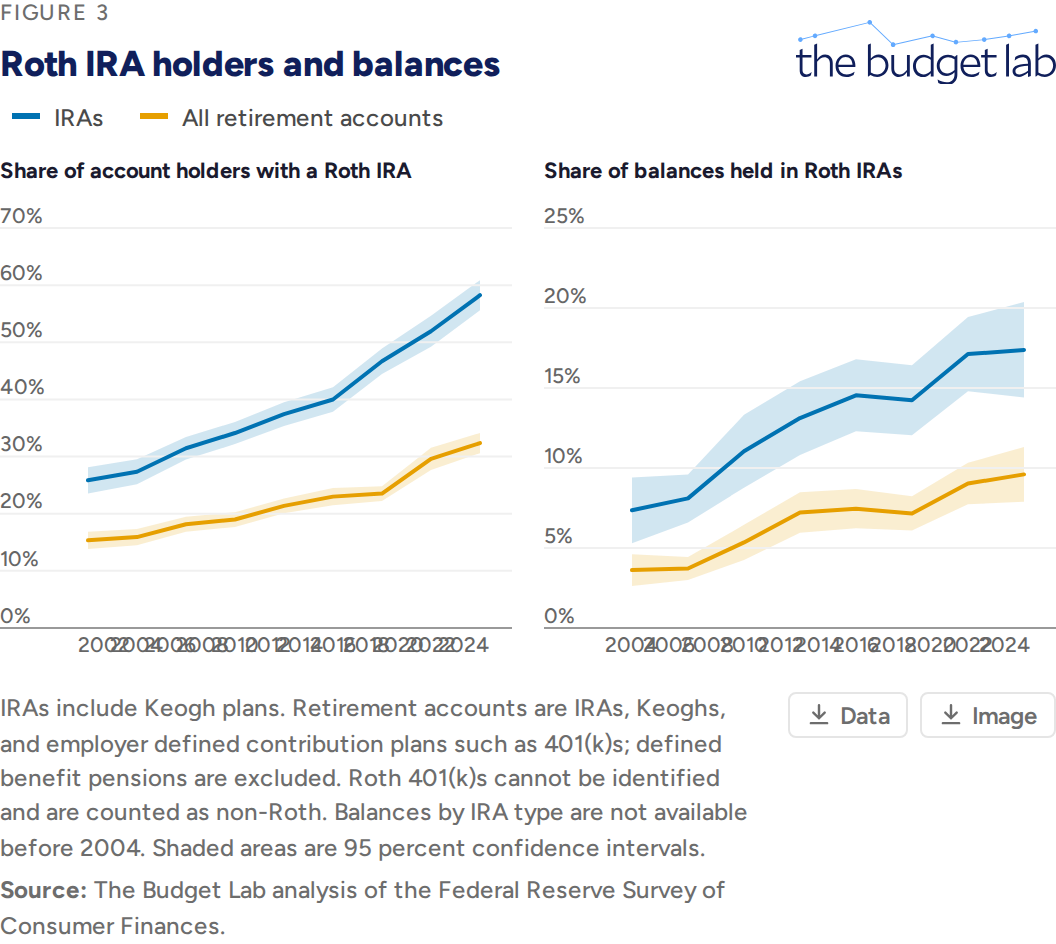
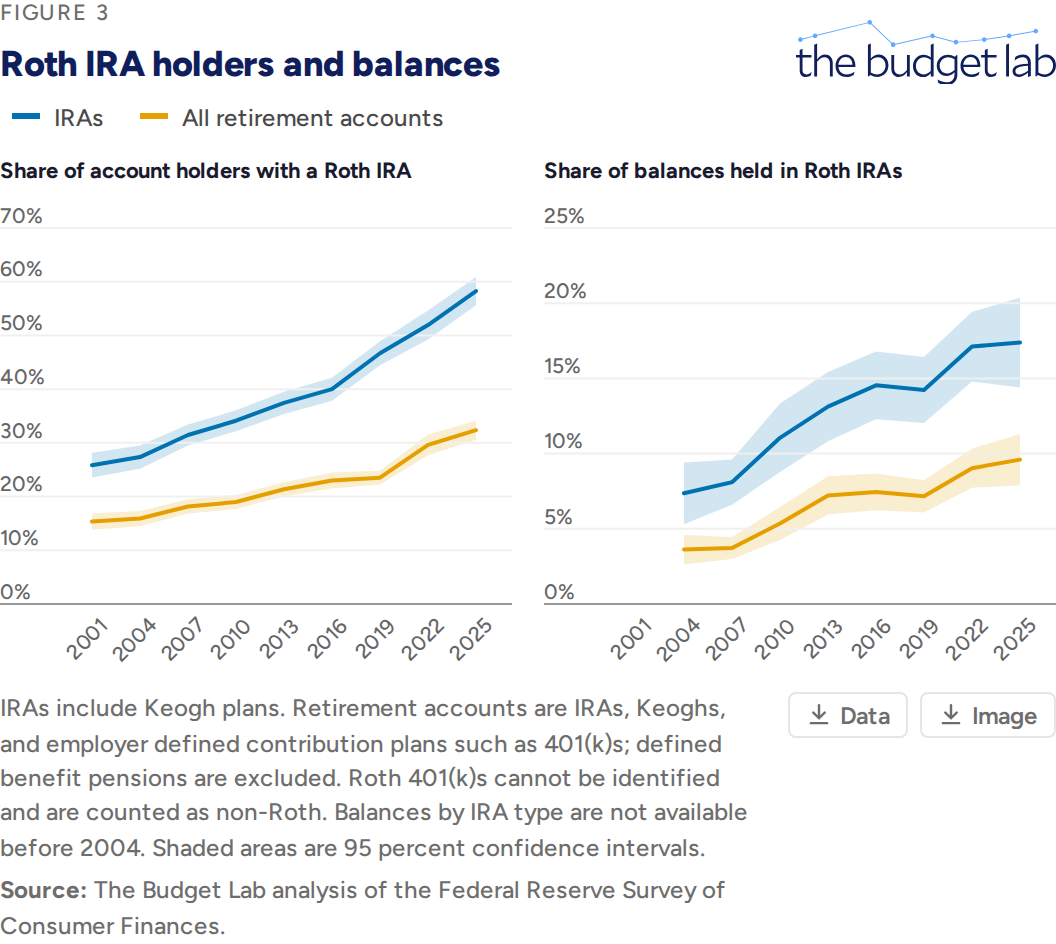
Deploy preview for PR 77 🛫

diff --git a/pr-preview/pr-77/scf-2025-tax-takeaways/roth-ira/index.html b/pr-preview/pr-77/scf-2025-tax-takeaways/roth-ira/index.html
@@ -16,8 +16,8 @@ if (typeof BudgetLabChart === "undefined") {
   renderUnavailable(el, "Roth IRA holders and balances", "Figure 3");
 } else {
 BudgetLabChart.mountChart(el, {
-  spec: {"chartType":"line","title":"Roth IRA holders and balances","source":"The Budget Lab analysis of the Federal Reserve Survey of Consumer Finances.","note":"IRAs include Keogh plans. Retirement accounts are IRAs, Keoghs, and employer defined contribution plans such as 401(k)s; defined benefit pensions are excluded. Roth 401(k)s cannot be identified and are counted as non-Roth. Balances by IRA type are not available before 2004. Shaded areas are 95 percent confidence intervals.","xAxisType":"temporal","columns":{"x":"year","value":"value","series":"series","facet":"panel"},"small_multiples":{"columns":2,"mode":"per-pane","pane_order":["Share of account holders with a Roth IRA","Share of balances held in Roth IRAs"]},"series_order":["IRAs","All retirement accounts"],"confidence_bands":[{"series":"IRAs","lower":"lower","upper":"upper"},{"series":"All retirement accounts","lower":"lower","upper":"upper"}],"value_suffix":"%","yAxisPolicy":{"min":0},"tooltip_decimals":1,"data":"data.csv"},
-  rows: [{"year":"2001","panel":"Share of account holders with a Roth IRA","series":"IRAs","value":"25.84","lower":"23.53","upper":"28.15"},{"year":"2004","panel":"Share of account holders with a Roth IRA","series":"IRAs","value":"27.35","lower":"25.17","upper":"29.52"},{"year":"2007","panel":"Share of account holders with a Roth IRA","series":"IRAs","value":"31.46","lower":"29.49","upper":"33.43"},{"year":"2010","panel":"Share of account holders with a Roth IRA","series":"IRAs","value":"34.12","lower":"32.18","upper":"36.05"},{"year":"2013","panel":"Share of account holders with a Roth IRA","series":"IRAs","value":"37.44","lower":"35.37","upper":"39.5"},{"year":"2016","panel":"Share of account holders with a Roth IRA","series":"IRAs","value":"39.99","lower":"37.86","upper":"42.13"},{"year":"2019","panel":"Share of account holders with a Roth IRA","series":"IRAs","value":"46.68","lower":"44.46","upper":"48.9"},{"year":"2022","panel":"Share of account holders with a Roth IRA","series":"IRAs","value":"51.93","lower":"49.23","upper":"54.64"},{"year":"2025","panel":"Share of account holders with a Roth IRA","series":"IRAs","value":"58.24","lower":"55.6","upper":"60.87"},{"year":"2001","panel":"Share of account holders with a Roth IRA","series":"All retirement accounts","value":"15.34","lower":"13.83","upper":"16.84"},{"year":"2004","panel":"Share of account holders with a Roth IRA","series":"All retirement accounts","value":"15.91","lower":"14.49","upper":"17.33"},{"year":"2007","panel":"Share of account holders with a Roth IRA","series":"All retirement accounts","value":"18.16","lower":"16.83","upper":"19.49"},{"year":"2010","panel":"Share of account holders with a Roth IRA","series":"All retirement accounts","value":"18.98","lower":"17.69","upper":"20.27"},{"year":"2013","panel":"Share of account holders with a Roth IRA","series":"All retirement accounts","value":"21.37","lower":"20.07","upper":"22.67"},{"year":"2016","panel":"Share of account holders with a Roth IRA","series":"All retirement accounts","value":"22.99","lower":"21.5","upper":"24.48"},{"year":"2019","panel":"Share of account holders with a Roth IRA","series":"All retirement accounts","value":"23.52","lower":"22.23","upper":"24.82"},{"year":"2022","panel":"Share of account holders with a Roth IRA","series":"All retirement accounts","value":"29.61","lower":"27.67","upper":"31.54"},{"year":"2025","panel":"Share of account holders with a Roth IRA","series":"All retirement accounts","value":"32.36","lower":"30.6","upper":"34.13"},{"year":"2004","panel":"Share of balances held in Roth IRAs","series":"IRAs","value":"7.36","lower":"5.3","upper":"9.41"},{"year":"2007","panel":"Share of balances held in Roth IRAs","series":"IRAs","value":"8.1","lower":"6.6","upper":"9.6"},{"year":"2010","panel":"Share of balances held in Roth IRAs","series":"IRAs","value":"11.05","lower":"8.77","upper":"13.33"},{"year":"2013","panel":"Share of balances held in Roth IRAs","series":"IRAs","value":"13.12","lower":"10.82","upper":"15.42"},{"year":"2016","panel":"Share of balances held in Roth IRAs","series":"IRAs","value":"14.54","lower":"12.29","upper":"16.79"},{"year":"2019","panel":"Share of balances held in Roth IRAs","series":"IRAs","value":"14.23","lower":"12.04","upper":"16.42"},{"year":"2022","panel":"Share of balances held in Roth IRAs","series":"IRAs","value":"17.12","lower":"14.8","upper":"19.43"},{"year":"2025","panel":"Share of balances held in Roth IRAs","series":"IRAs","value":"17.38","lower":"14.4","upper":"20.37"},{"year":"2004","panel":"Share of balances held in Roth IRAs","series":"All retirement accounts","value":"3.62","lower":"2.63","upper":"4.61"},{"year":"2007","panel":"Share of balances held in Roth IRAs","series":"All retirement accounts","value":"3.72","lower":"3","upper":"4.43"},{"year":"2010","panel":"Share of balances held in Roth IRAs","series":"All retirement accounts","value":"5.35","lower":"4.25","upper":"6.45"},{"year":"2013","panel":"Share of balances held in Roth IRAs","series":"All retirement accounts","value":"7.22","lower":"5.95","upper":"8.49"},{"year":"2016","panel":"Share of balances held in Roth IRAs","series":"All retirement accounts","value":"7.45","lower":"6.23","upper":"8.68"},{"year":"2019","panel":"Share of balances held in Roth IRAs","series":"All retirement accounts","value":"7.16","lower":"6.09","upper":"8.23"},{"year":"2022","panel":"Share of balances held in Roth IRAs","series":"All retirement accounts","value":"9.03","lower":"7.73","upper":"10.33"},{"year":"2025","panel":"Share of balances held in Roth IRAs","series":"All retirement accounts","value":"9.6","lower":"7.89","upper":"11.31"}],
+  spec: {"chartType":"line","title":"Roth IRA holders and balances","source":"The Budget Lab analysis of the Federal Reserve Survey of Consumer Finances.","note":"IRAs include Keogh plans. Retirement accounts are IRAs, Keoghs, and employer defined contribution plans such as 401(k)s; defined benefit pensions are excluded. Roth 401(k)s cannot be identified and are counted as non-Roth. Balances by IRA type are not available before 2004. Shaded areas are 95 percent confidence intervals.","xAxisType":"categorical","x_order":["2001","2004","2007","2010","2013","2016","2019","2022","2025"],"columns":{"x":"year","value":"value","series":"series","facet":"panel"},"small_multiples":{"columns":2,"mode":"per-pane","pane_order":["Share of account holders with a Roth IRA","Share of balances held in Roth IRAs"]},"series_order":["IRAs","All retirement accounts"],"confidence_bands":[{"series":"IRAs","lower":"lower","upper":"upper"},{"series":"All retirement accounts","lower":"lower","upper":"upper"}],"value_suffix":"%","yAxisPolicy":{"min":0},"tooltip_decimals":1,"data":"data.csv"},
+  rows: [{"year":"2001","panel":"Share of account holders with a Roth IRA","series":"IRAs","value":"25.84","lower":"23.53","upper":"28.15"},{"year":"2004","panel":"Share of account holders with a Roth IRA","series":"IRAs","value":"27.35","lower":"25.17","upper":"29.52"},{"year":"2007","panel":"Share of account holders with a Roth IRA","series":"IRAs","value":"31.46","lower":"29.49","upper":"33.43"},{"year":"2010","panel":"Share of account holders with a Roth IRA","series":"IRAs","value":"34.12","lower":"32.18","upper":"36.05"},{"year":"2013","panel":"Share of account holders with a Roth IRA","series":"IRAs","value":"37.44","lower":"35.37","upper":"39.5"},{"year":"2016","panel":"Share of account holders with a Roth IRA","series":"IRAs","value":"39.99","lower":"37.86","upper":"42.13"},{"year":"2019","panel":"Share of account holders with a Roth IRA","series":"IRAs","value":"46.68","lower":"44.46","upper":"48.9"},{"year":"2022","panel":"Share of account holders with a Roth IRA","series":"IRAs","value":"51.93","lower":"49.23","upper":"54.64"},{"year":"2025","panel":"Share of account holders with a Roth IRA","series":"IRAs","value":"58.24","lower":"55.6","upper":"60.87"},{"year":"2001","panel":"Share of account holders with a Roth IRA","series":"All retirement accounts","value":"15.34","lower":"13.83","upper":"16.84"},{"year":"2004","panel":"Share of account holders with a Roth IRA","series":"All retirement accounts","value":"15.91","lower":"14.49","upper":"17.33"},{"year":"2007","panel":"Share of account holders with a Roth IRA","series":"All retirement accounts","value":"18.16","lower":"16.83","upper":"19.49"},{"year":"2010","panel":"Share of account holders with a Roth IRA","series":"All retirement accounts","value":"18.98","lower":"17.69","upper":"20.27"},{"year":"2013","panel":"Share of account holders with a Roth IRA","series":"All retirement accounts","value":"21.37","lower":"20.07","upper":"22.67"},{"year":"2016","panel":"Share of account holders with a Roth IRA","series":"All retirement accounts","value":"22.99","lower":"21.5","upper":"24.48"},{"year":"2019","panel":"Share of account holders with a Roth IRA","series":"All retirement accounts","value":"23.52","lower":"22.23","upper":"24.82"},{"year":"2022","panel":"Share of account holders with a Roth IRA","series":"All retirement accounts","value":"29.61","lower":"27.67","upper":"31.54"},{"year":"2025","panel":"Share of account holders with a Roth IRA","series":"All retirement accounts","value":"32.36","lower":"30.6","upper":"34.13"},{"year":"2001","panel":"Share of balances held in Roth IRAs","series":"IRAs","value":"","lower":"","upper":""},{"year":"2004","panel":"Share of balances held in Roth IRAs","series":"IRAs","value":"7.36","lower":"5.3","upper":"9.41"},{"year":"2007","panel":"Share of balances held in Roth IRAs","series":"IRAs","value":"8.1","lower":"6.6","upper":"9.6"},{"year":"2010","panel":"Share of balances held in Roth IRAs","series":"IRAs","value":"11.05","lower":"8.77","upper":"13.33"},{"year":"2013","panel":"Share of balances held in Roth IRAs","series":"IRAs","value":"13.12","lower":"10.82","upper":"15.42"},{"year":"2016","panel":"Share of balances held in Roth IRAs","series":"IRAs","value":"14.54","lower":"12.29","upper":"16.79"},{"year":"2019","panel":"Share of balances held in Roth IRAs","series":"IRAs","value":"14.23","lower":"12.04","upper":"16.42"},{"year":"2022","panel":"Share of balances held in Roth IRAs","series":"IRAs","value":"17.12","lower":"14.8","upper":"19.43"},{"year":"2025","panel":"Share of balances held in Roth IRAs","series":"IRAs","value":"17.38","lower":"14.4","upper":"20.37"},{"year":"2001","panel":"Share of balances held in Roth IRAs","series":"All retirement accounts","value":"","lower":"","upper":""},{"year":"2004","panel":"Share of balances held in Roth IRAs","series":"All retirement accounts","value":"3.62","lower":"2.63","upper":"4.61"},{"year":"2007","panel":"Share of balances held in Roth IRAs","series":"All retirement accounts","value":"3.72","lower":"3","upper":"4.43"},{"year":"2010","panel":"Share of balances held in Roth IRAs","series":"All retirement accounts","value":"5.35","lower":"4.25","upper":"6.45"},{"year":"2013","panel":"Share of balances held in Roth IRAs","series":"All retirement accounts","value":"7.22","lower":"5.95","upper":"8.49"},{"year":"2016","panel":"Share of balances held in Roth IRAs","series":"All retirement accounts","value":"7.45","lower":"6.23","upper":"8.68"},{"year":"2019","panel":"Share of balances held in Roth IRAs","series":"All retirement accounts","value":"7.16","lower":"6.09","upper":"8.23"},{"year":"2022","panel":"Share of balances held in Roth IRAs","series":"All retirement accounts","value":"9.03","lower":"7.73","upper":"10.33"},{"year":"2025","panel":"Share of balances held in Roth IRAs","series":"All retirement accounts","value":"9.6","lower":"7.89","upper":"11.31"}],
   eyebrow: /[?&]eyebrow=(off|0|false|none|hide)\b/i.test(location.search) ? undefined : "Figure 3",
 });
 }
